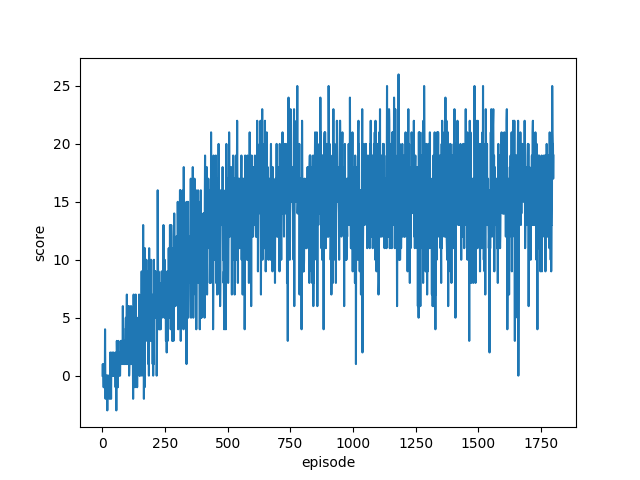
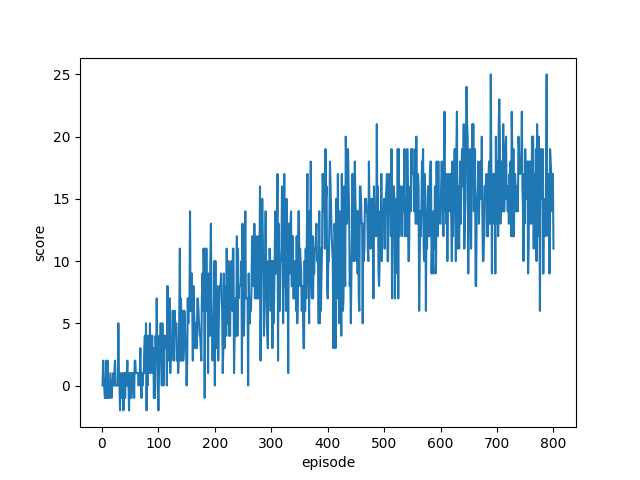
update model checkpoint file and report documentation to reflect changes

diff --git a/Report.md b/Report.md
@@ -10,8 +10,8 @@ Q-Learning is a model-free reinforcement learning algorithm to learn a policy fo
 
 - Fully-connected layers:
     1. input of 37 neurons with relu activation,
-    2. 64 neurons with relu activation,
-    3. 64 neurons with relu activation,
+    2. 37 neurons with relu activation,
+    3. 18 neurons with relu activation,
     4. and output of 4 neurons with no activation.
 - Adam optimizer with learning_rate 5e-4 and batch size 64
 
